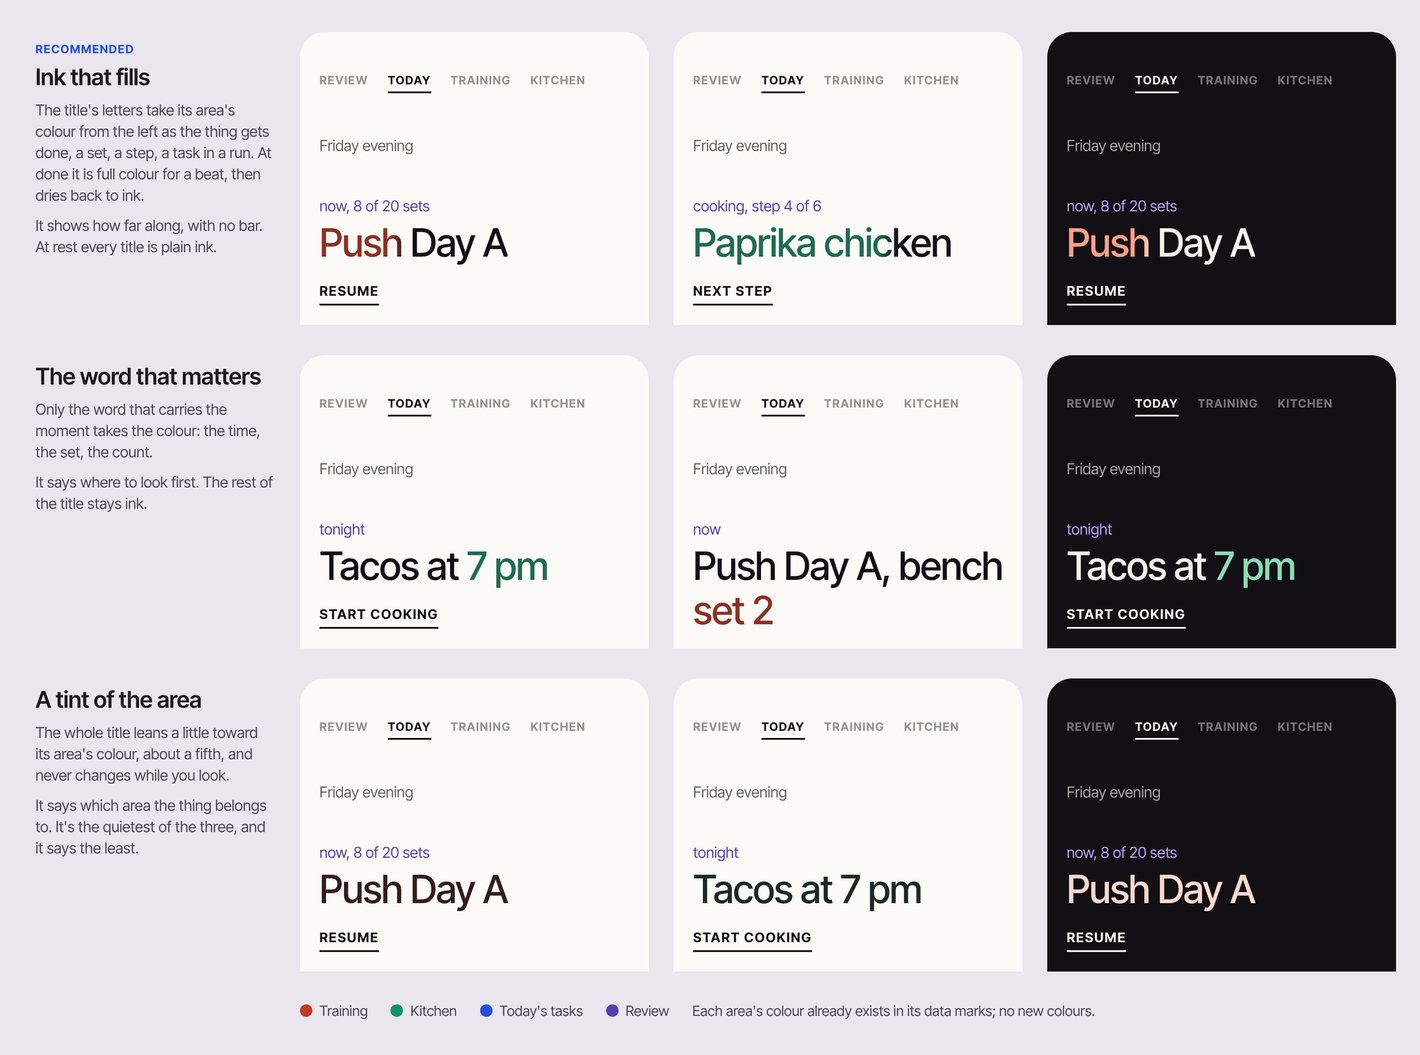
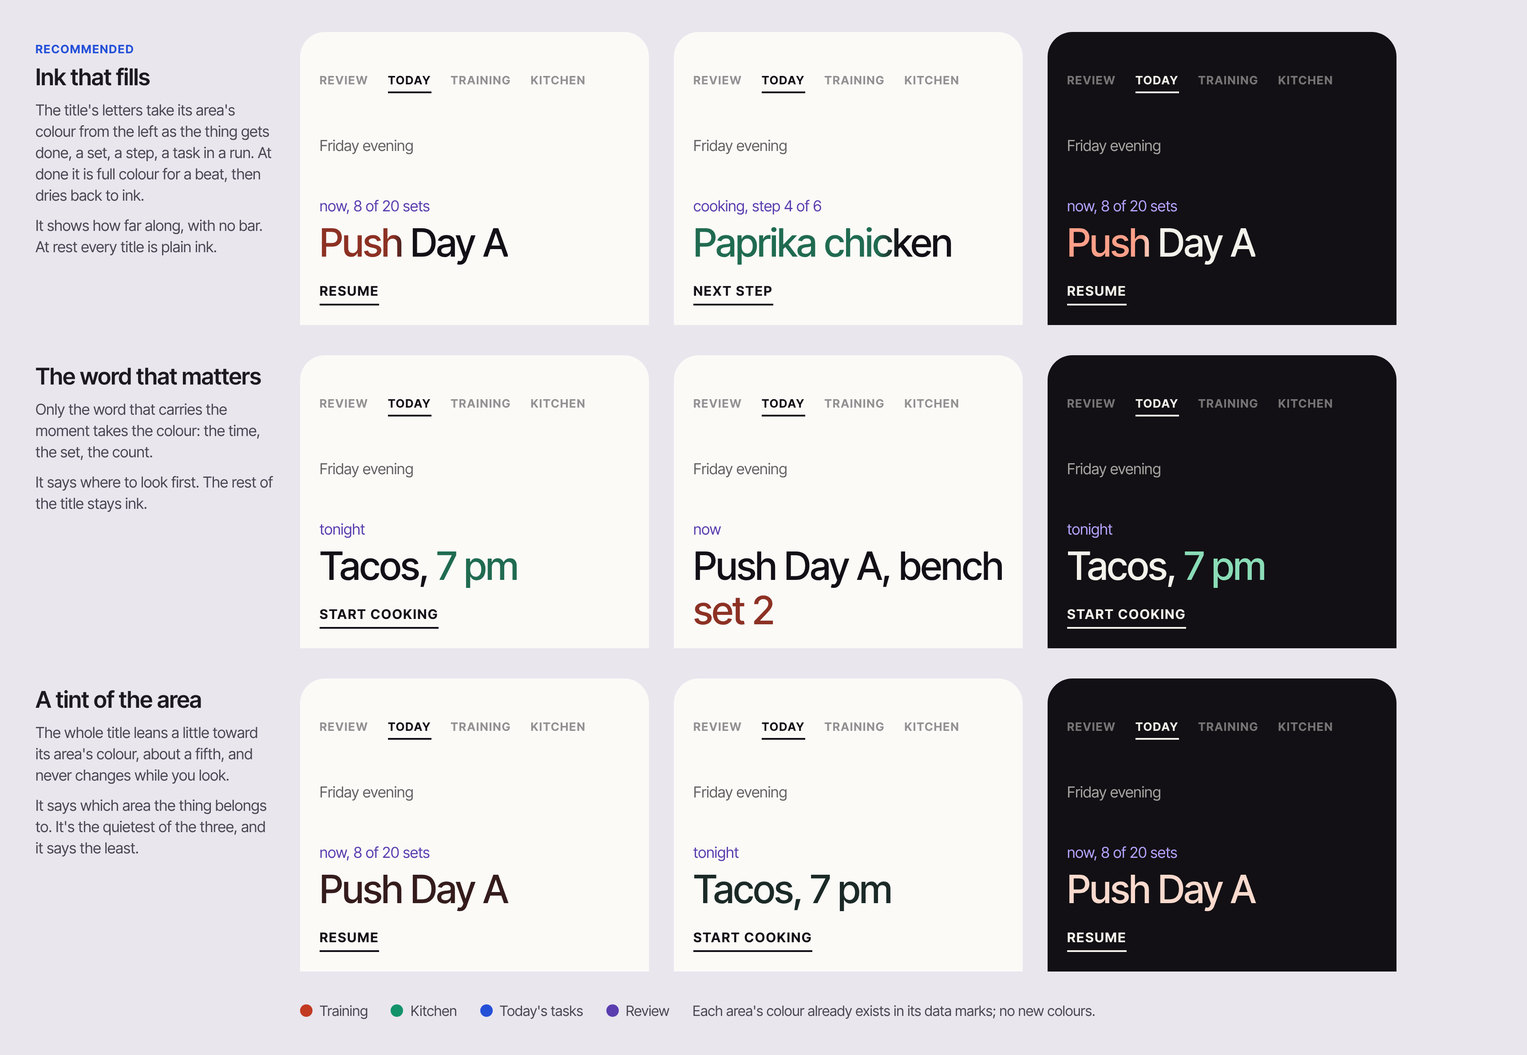
Design copy sweep: no 'at' before a clock time
Claude-Session: https://claude.ai/code/session_01SL6miEcidPoK87LdeaQGbH

diff --git a/docs/design/studies/shutdown-grammar.html b/docs/design/studies/shutdown-grammar.html
@@ -70,12 +70,12 @@ const shutdown=(o)=>{let h=frame(o)+hero(o.hero||'Shutdown');let y=296;const row
  h+=`<div class="abs lbl s2" id="tlbl" style="left:22px;top:${y}px">TOMORROW, FIRST</div><div class="abs f18" id="wl" style="left:22px;top:${y+32}px;width:346px;color:${o.typed?'rgb(var(--ink))':`rgba(var(--ink),var(--s2))`}">${o.typed||o.ph||''}${o.caret?'<span class="caret"></span>':''}</div><div class="hair" id="wh" style="top:${y+64}px"></div>`;
  return h+inkWord('CLOSE THE DAY',22,y+120,o.ids?'close':'')};
 const closed=(o)=>frame(o)+hero(o.line,220,o.two)+`<div class="abs lbl s2" style="left:22px;top:${o.two?346:296}px">${o.then}</div>`;
-const D1='Tomorrow starts with Standup at 9:30 am.';
+const D1='Tomorrow starts with Standup, 9:30 am.';
 if(!PLAY){
  $('row').innerHTML=phone('SHUTDOWN AT 9:04 PM: THE CLOCK, ROWS WITH TOMORROW AS THE VALUE, THE LINE, THE KEY',shutdown({day:'Thursday evening',ctx:'9:04 pm',ph:D1}),{por:1,line:'Did 4 tasks, 1 workout, cooked once.'})
   +phone('A ROW TO LATER, THE LINE TYPED ABOVE THE KEYS, DONE OVER THE KEYBOARD',(()=>{let h=frame({day:'Thursday evening',ctx:'9:04 pm'});h+=`<div class="abs" style="inset:0;opacity:.25;filter:blur(3px)">${hero('Shutdown')}<div class="abs lbl s2" style="left:22px;top:296px">3 MOVING TO TOMORROW</div>${line('Book the physio','TOMORROW',328)}${line('Clean the oven','LATER',368,{style:`color:rgba(var(--ink),var(--s2))`})}${line('Reply to the landlord','TOMORROW',408)}${inkWord('CLOSE THE DAY',22,584)}</div><div class="abs lbl s2" style="left:22px;top:444px">TOMORROW, FIRST</div><div class="abs f18" style="left:22px;top:468px;width:346px">Reply to the landlord<span class="caret"></span></div><div class="hair" style="top:500px"></div><div class="inkline" style="top:500px;width:346px"></div>`+KB({});return h})(),{por:1,nosoul:1})
   +phone('THE LINE SAID: HOLD THE SOUL, THE WORDS LAND IN THE LINE, WET, AND DRY',shutdown({day:'Thursday evening',ctx:'9:06 pm',typed:'<span style="color:var(--tess)">Reply to the landlord</span>'})+'<div id="fing" style="opacity:1;left:346px;top:779px"></div>',{por:0,line:'Reply to the landlord, tomorrow first.'})
-  +phone('THE CLOSED DAY: HIS LINE AS THE HERO, THEN PULL A, TESS\'S CLOSE WITH UNDO',closed({day:'Thursday night',ctx:'tomorrow, first',line:'Reply to the landlord',two:1,then:'THEN PULL A, 7:30 AM'}),{por:0,line:'Closed. Your line is waiting at 8 am.',undo:1})
+  +phone('THE CLOSED DAY: HIS LINE AS THE HERO, THEN PULL A, TESS\'S CLOSE WITH UNDO',closed({day:'Thursday night',ctx:'tomorrow, first',line:'Reply to the landlord',two:1,then:'THEN PULL A, 7:30 AM'}),{por:0,line:'Closed. Your line is set for 8 am.',undo:1})
   +phone('LATE NIGHT: THE ROWS MOVE TO FRIDAY, TESS FILES THE DAY UNDER THURSDAY',shutdown({day:'Thursday night',ctx:'12:40 am',to:'FRIDAY',rows:[['Book the physio','FRIDAY'],['Clean the oven','FRIDAY']],ph:D1}),{por:0,line:'Filed under Thursday. Did 3 tasks, cooked once.'})
   +phone('A QUIET ONE: NO ROWS, TESS OFFERS THE LINE, NOTHING ELSE ON THE PAGE',shutdown({day:'Thursday evening',ctx:'9:00 pm',rows:[]}),{por:1,line:'A quiet one. Want a line for tomorrow?'});
  $('note').innerHTML='SHUTDOWN UNDER THE ONE-LINE GRAMMAR, ON SHEET 41\'S HOME FRAME: THE DAY LABEL AT 138, THE CLOCK AS THE CONTEXT LINE AT 186, "SHUTDOWN" AS THE HERO AT 220. RESEARCH\'S OPENER (SLOT B) IS TESS\'S LINE; THE CARRY-OVER COUNT (SLOT C) IS THE LABEL WORD OVER THE ROWS; EACH ROW THAT ROLLS IS ONE BODY 21 LINE WITH TOMORROW AS ITS VALUE, A TAP MAKES IT LATER (THE VALUE CROSSFADES, NO STRIKE); THE TOMORROW LINE (SLOT D) IS A WRITING LINE AT FIELD 18; CLOSE THE DAY IS THE INK-LINE KEY, A HOLD OF 0.7 S. THE CLOSED DAY: HIS LINE AS THE HERO IN THE FITTING FORM, THEN PULL A AS A LABEL WORD, TESS\'S CLOSE (SLOT E) WITH UNDO 10 S. GONE: THE DAY STROKE, THE TITLE 34 OPENER, THE INK-LINE STRIKE, "SHUTDOWN COMPLETE" AT TITLE 34, THE MIDDLE DOT IN "THEN PULL A · 07:30". NO EVENING WASH, NO DOTS, NO COUNT OF WHAT DIDN\'T HAPPEN.';
@@ -102,7 +102,7 @@ if(!PLAY){
   await sleep(300);['rlbl','r0','r1','r1v','r2','tlbl','wl','wh','close','il'].map($).forEach(el=>el.animate([{opacity:1,filter:'blur(0)'},{opacity:0,filter:'blur(3px)'}],{duration:420,fill:'forwards'}));P.querySelector('.h56').animate([{opacity:1,filter:'blur(0)'},{opacity:0,filter:'blur(3px)'}],{duration:420,fill:'forwards'});await sleep(500);
   setCap('THE CLOSED DAY: HIS LINE AS THE HERO, TESS CLOSES WITH UNDO');xf($('dayl'),'Thursday night');xf($('ctxl'),'tomorrow, first');
   P.insertAdjacentHTML('beforeend',`<div class="abs" id="cd" style="inset:0;opacity:0">${hero('Reply to the landlord',220,1)}<div class="abs lbl s2" style="left:22px;top:346px">THEN PULL A, 7:30 AM</div></div>`);$('cd').animate([{opacity:0,transform:'scale(.97)'},{opacity:1,transform:'scale(1)'}],{duration:480,easing:H,fill:'forwards'});
-  P.insertAdjacentHTML('beforeend',`<div class="tl" style="opacity:0">Closed. Your line is waiting at 8&nbsp;am.<span class="u">UNDO</span></div>`);P.lastElementChild.animate([{opacity:0},{opacity:1}],{duration:300,delay:200,fill:'forwards'});
+  P.insertAdjacentHTML('beforeend',`<div class="tl" style="opacity:0">Closed. Your line is set for 8&nbsp;am.<span class="u">UNDO</span></div>`);P.lastElementChild.animate([{opacity:0},{opacity:1}],{duration:300,delay:200,fill:'forwards'});
   await sleep(2600);document.body.dataset.done='1'})();
 }
 </script>

diff --git a/docs/design/studies/widget-states.html b/docs/design/studies/widget-states.html
@@ -53,7 +53,7 @@ const keyW=(word,w,paint,colour,top)=>`<div class="key" style="top:${top}px;colo
 const S=[
  {k:'RUNNING',ctx:'running now, Push A',hero:'Bench, set 4 of 5',meta:'SET 4 IS UP',key:['Resume',74,'var(--live)','var(--liveInk)'],small:['running now','Bench, set 4 of 5']},
  {k:'RESTING',ctx:'running now, Push A',hero:'Bench, set 4 of 5',meta:'RESTING',timer:'1:32',horizon:.38,key:['Resume',74,'var(--live)','var(--liveInk)'],small:['resting',null,'1:32']},
- {k:'TIMED TASK<br>WITHIN 15 MIN',ctx:'next, at six',hero:'Call landlord',meta:'IN 10 MIN',small:['next, at six','Call landlord']},
+ {k:'TIMED TASK<br>WITHIN 15 MIN',ctx:'next, 6 pm',hero:'Call landlord',meta:'IN 10 MIN',small:['next, 6 pm','Call landlord']},
  {k:'REST DAY',ctx:'Rest day',hero:'Pull A is a tap away',key:['Pull A',62,'var(--tr)','rgb(var(--ink))'],small:['Rest day','Pull A is a tap away']},
  {k:'ALL QUIET',hero:'All quiet.',quiet:1,small:[null,'All quiet.']},
  {k:'DAY DONE',ctx:'trained this evening',hero:'Push A',meta:'6 OF 6 · 22 SETS · 1 RECORD',small:['trained','Push A']},
@@ -103,7 +103,7 @@ if(mode==='lock'){
  const rect=[
   ['<b>Push A</b>','Bench, set 4 of 5','<span class="d">Set 4 is up</span>'],
   ['<b>Push A</b>','Bench, set 4 of 5','<span class="d">Resting</span> 1:32'],
-  ['<b>Call landlord</b>','next, at six','<span class="d">In 10 min</span>'],
+  ['<b>Call landlord</b>','next, 6 pm','<span class="d">In 10 min</span>'],
   ['<b>Rest day</b>','Pull A is a tap away',''],
   ['<b>All quiet.</b>','',''],
   ['<b>Push A</b>','trained this evening','<span class="d">6 of 6 exercises, 22 sets</span>'],
@@ -113,7 +113,7 @@ if(mode==='lock'){
  ];
  const ring=(f,txt,sub='')=>`<div class="circ"><svg width="76" height="76" style="position:absolute;left:0;top:0"><circle cx="38" cy="38" r="33" fill="none" stroke="rgba(255,255,255,.25)" stroke-width="4"/>${f?`<circle cx="38" cy="38" r="33" fill="none" stroke="#fff" stroke-width="4" stroke-linecap="round" stroke-dasharray="${207*f} 207" transform="rotate(-90 38 38)"/>`:''}</svg><span style="position:relative">${txt}</span>${sub?`<span style="position:relative;font-size:16px;font-weight:600;opacity:.66">${sub}</span>`:''}</div>`;
  const circ=[ring(.6,'4/5'),ring(.38,'1:32'),ring(0,'10<br><span style=\'font-weight:600\'>min</span>'),`<div class="circ">Rest</div>`,`<div class="circ">Quiet</div>`,ring(1,'✓','22'),`<div class="circ" style="opacity:.66">7:30</div>`,`<div class="circ">Rest</div>`,`<div class="circ" style="opacity:.66">Paused</div>`];
- const inl=['Bench, set 4 of 5','Resting 1:32','Call landlord at six','Rest day','All quiet.','Push A, done','Pull A at 7:30','Rest day','Tessera paused'];
+ const inl=['Bench, set 4 of 5','Resting 1:32','Call landlord, 6 pm','Rest day','All quiet.','Push A, done','Pull A, 7:30 pm','Rest day','Tessera paused'];
  let g=`<h2>LOCK SCREEN ACCESSORIES · MONOCHROME, OPACITY TIERS ONLY · WORDS AND ONE TIMER CARRY THE STATE</h2><div style="display:flex;gap:40px;align-items:flex-start"><div class="lockbg"><div class="grid" style="grid-template-columns:170px 172px 76px 200px;gap:18px 22px">
   <div></div><div class="colh" style="color:rgba(255,255,255,.5)">RECTANGULAR</div><div class="colh" style="color:rgba(255,255,255,.5)">CIRCULAR</div><div class="colh" style="color:rgba(255,255,255,.5)">INLINE</div>`;
  S.forEach((s,i)=>{g+=`<div class="rowlbl" style="color:rgba(255,255,255,.66)">${s.k}</div><div class="acc rect">${rect[i].filter(Boolean).join('<br>')}</div>${circ[i]}<div class="acc inl" style="padding-top:8px">${inl[i]}</div>`});

diff --git a/docs/design/studies/area-index.html b/docs/design/studies/area-index.html
@@ -84,7 +84,7 @@ const AREAS = [
   { k: 'review', w: 'REVIEW', word: 'Review', a: 'var(--rev)', line: 'This week, 3 of 6 sessions', f: '50%' },
   { k: 'today', w: 'TODAY', word: 'Today', a: 'var(--today)', line: 'Push Day A, 13 sets left', f: '40%' },
   { k: 'train', w: 'TRAINING', word: 'Training', a: 'var(--train)', line: 'Push Day A is on', f: '35%' },
-  { k: 'kit', w: 'KITCHEN', word: 'Kitchen', a: 'var(--kit)', line: 'Tacos at 7 pm', f: '25%' },
+  { k: 'kit', w: 'KITCHEN', word: 'Kitchen', a: 'var(--kit)', line: 'Tacos, 7 pm', f: '25%' },
 ];
 
 // The four tab pages, simplified to their tops (41, 44, 46, 47).
@@ -97,8 +97,8 @@ function page(k) {
     <div class="abs hero">Push Day A is on</div><div class="abs key" style="top:282px;color:var(--train)">RESUME<i></i></div>
     <div class="abs lbl" style="top:350px">ROUTINES</div>
     <div class="abs next" style="top:378px"><div><span>Push Day A</span><em>Mon, Thu</em></div><div><span>Pull Day A</span><em>Tue</em></div><div><span>Legs A</span><em>Sat</em></div><div><span>Mobility</span><em>any day</em></div></div>`;
-  if (k === 'kit') return `<div class="abs day">Tonight</div><div class="abs ctxl">cook at 6:30 pm</div>
-    <div class="abs hero">Tacos at 7 pm</div><div class="abs key" style="top:282px">START COOKING<i></i></div>
+  if (k === 'kit') return `<div class="abs day">Tonight</div><div class="abs ctxl">cook, 6:30 pm</div>
+    <div class="abs hero">Tacos, 7 pm</div><div class="abs key" style="top:282px">START COOKING<i></i></div>
     <div class="abs lbl" style="top:350px">LISTS</div>
     <div class="abs next" style="top:378px"><div><span>Groceries</span><em>6 to buy</em></div><div><span>Packing</span><em>11 to pack</em></div><div><span>Recipes</span><em>24</em></div></div>`;
   return `<div class="abs day">This week</div><div class="abs ctxl">Oct 12 to Oct 18</div>
@@ -130,7 +130,7 @@ if (!play) {
      <div class="abs arc g" style="left:184px;top:470px;color:var(--rev)">REVIEW<small>3 of 6 this week</small></div>
      <div class="abs arc g" style="left:120px;top:560px;color:var(--today)">TODAY<small>7 of 20 sets</small></div>
      <div class="abs arc g" style="left:96px;top:650px;color:var(--train);transform:scale(1.1);transform-origin:100% 50%">TRAINING<small>Push Day A is on</small></div>
-     <div class="abs arc g" style="left:40px;top:744px;color:var(--kit)">KITCHEN<small>Tacos at 7 pm</small></div>
+     <div class="abs arc g" style="left:40px;top:744px;color:var(--kit)">KITCHEN<small>Tacos, 7 pm</small></div>
      ${band()}<div class="finger" style="left:200px;top:680px;opacity:1"></div></div>`;
 
   const col = (ph, opt, h, ps, rec) => `<div class="col">${ph}<div class="cap"><div class="opt${rec ? ' rec' : ''}">${opt}</div><h2>${h}</h2>${ps.map(p => `<p>${p}</p>`).join('')}</div></div>`;

diff --git a/docs/design/studies/living-colours.html b/docs/design/studies/living-colours.html
@@ -60,7 +60,7 @@ if(!PLAY){
 }else{
  const TABS=['REVIEW','TODAY','TRAINING','KITCHEN'],TX=[22,118,199,300];
  const tabs=on=>`<div class="abs lbl" style="left:0;right:0;top:78px;height:24px;letter-spacing:.06em;z-index:13">${TABS.map((t,i)=>`<span class="abs" style="left:${TX[i]}px;top:0;color:rgba(var(--ink),${t===on?1:.38})">${t}</span>`).join('')}<svg class="abs" style="left:${TX[TABS.indexOf(on)]}px;top:24px;overflow:visible" width="90" height="12"><path d="${lens(on.length*10.6,1.2)}" fill="rgb(var(--ink))"/></svg></div>`;
- const home=`${tabs('TODAY')}<div class="abs b nw" style="left:22px;top:138px">Thursday night</div><div class="abs b ctx nw" style="left:22px;top:186px">done at 7:40 pm</div><div class="abs hero" style="left:22px;top:220px">Push A done</div><div class="abs t34" style="left:22px;top:326px">Next</div>${[['Stretch and mobility','20:30'],['Read Designing Data-Intensive Applications','21:10',1],['Call mom','tomorrow']].map(([t,h,w],k,a)=>{const y=378+a.slice(0,k).reduce((s,r)=>s+(r[2]?74:46),0);return `<div class="abs b" style="left:22px;top:${y}px;width:280px">${t}</div><div class="abs lbl s2" style="right:22px;top:${y+4}px">${h}</div>`}).join('')}`;
+ const home=`${tabs('TODAY')}<div class="abs b nw" style="left:22px;top:138px">Thursday night</div><div class="abs b ctx nw" style="left:22px;top:186px">done, 7:40 pm</div><div class="abs hero" style="left:22px;top:220px">Push A done</div><div class="abs t34" style="left:22px;top:326px">Next</div>${[['Stretch and mobility','20:30'],['Read Designing Data-Intensive Applications','21:10',1],['Call mom','tomorrow']].map(([t,h,w],k,a)=>{const y=378+a.slice(0,k).reduce((s,r)=>s+(r[2]?74:46),0);return `<div class="abs b" style="left:22px;top:${y}px;width:280px">${t}</div><div class="abs lbl s2" style="right:22px;top:${y+4}px">${h}</div>`}).join('')}`;
  $('board').innerHTML=`<div class="cap" id="cap">TODAY · HER OWN PIGMENTS AT REST</div><div class="ph" id="P">${home}${soul(pig('Obsidian','Today'),1,1,323,759,'S')}</div>`;
  const seq=[['Lagoon','night after a push day'],['Kiln','a cook evening'],['Ember','a bench best today'],['Today','back to her own']];
  async function play(){await sleep(1600);

diff --git a/docs/design/studies/day-reel.html b/docs/design/studies/day-reel.html
@@ -67,8 +67,8 @@ const startKey=(word,fill,y=296,id='sk')=>`<div class="abs lbl" id="${id}" style
 const next=(y0,rows)=>`<div class="abs t34" style="left:22px;top:${y0}px">Next</div>${rows.map(([t,h,w],k,a)=>{const y=y0+52+a.slice(0,k).reduce((s,r)=>s+(r[2]?74:46),0);return `<div class="abs b" style="left:22px;top:${y}px;width:${h?280:346}px">${t}</div>${h?`<div class="abs lbl s2" style="right:22px;top:${y+4}px">${h}</div>`:''}`}).join('')}`;
 const home=(o)=>`<div class="abs b nw" id="day" style="left:22px;top:138px">${o.day}</div><div class="abs b ctx nw" id="ctxl" style="left:22px;top:186px">${o.ctx}</div><div class="abs hero" id="hero" style="left:22px;top:220px">${o.hero}</div>${o.key?startKey(o.key,o.fill??1):''}${next(o.key?388:326,o.rows)}`;
 const MORNING={day:'Thursday morning',ctx:'today',hero:'Push A',key:'START PUSH A',rows:[['Call the bank','15:00'],['Groceries at Trader Joe’s','17:30'],['Stretch and mobility','20:30'],['Read Designing Data-Intensive Applications','21:10',1]]};
-const EVENING={day:'Thursday evening',ctx:'done at 7:40 pm',hero:'Push A done',rows:[['Stretch and mobility','20:30'],['Read Designing Data-Intensive Applications','21:10',1],['Call mom','tomorrow']]};
-const NIGHT={day:'Thursday night',ctx:'done at 7:40 pm',hero:'Push A done',rows:[['Call mom','tomorrow'],['Pull A','tomorrow']]};
+const EVENING={day:'Thursday evening',ctx:'done, 7:40 pm',hero:'Push A done',rows:[['Stretch and mobility','20:30'],['Read Designing Data-Intensive Applications','21:10',1],['Call mom','tomorrow']]};
+const NIGHT={day:'Thursday night',ctx:'done, 7:40 pm',hero:'Push A done',rows:[['Call mom','tomorrow'],['Pull A','tomorrow']]};
 const FRIDAY={day:'Friday morning',ctx:'today',hero:'Pull A',key:'START PULL A',rows:[['Call mom','12:30'],['Stretch and mobility','20:30']]};
 // 44: Training at rest. The strip (one segment per exercise, its length its sets), the plan as lanes, the Start mark.
 const PLAN=[['Bench press',4,'82.5 × 8'],['Overhead press',3,'47.5 × 8'],['Incline dumbbell',3,'28 × 10'],['Lateral raise',3,'10 × 12'],['Triceps pushdown',3,'30 × 12']];

diff --git a/docs/design/studies/title-accent.html b/docs/design/studies/title-accent.html
@@ -74,16 +74,16 @@ const options = [
     p: ['Only the word that carries the moment takes the colour: the time, the set, the count.',
         'It says where to look first. The rest of the title stays ink.'],
     phones: [
-      ['por', { mode: 'word', area: 'kit', word: '7 pm', hero: 'Tacos at 7 pm', ctx: 'tonight', key: 'START COOKING' }],
+      ['por', { mode: 'word', area: 'kit', word: '7 pm', hero: 'Tacos, 7 pm', ctx: 'tonight', key: 'START COOKING' }],
       ['por', { mode: 'word', area: 'train', word: 'set 2', hero: 'Push Day A, bench set 2', lines: 2, ctx: 'now', key: 'RESUME' }],
-      ['obs', { mode: 'word', area: 'kit', word: '7 pm', hero: 'Tacos at 7 pm', ctx: 'tonight', key: 'START COOKING' }],
+      ['obs', { mode: 'word', area: 'kit', word: '7 pm', hero: 'Tacos, 7 pm', ctx: 'tonight', key: 'START COOKING' }],
     ] },
   { h: 'A tint of the area',
     p: ['The whole title leans a little toward its area\'s colour, about a fifth, and never changes while you look.',
         'It says which area the thing belongs to. It\'s the quietest of the three, and it says the least.'],
     phones: [
       ['por', { mode: 'tint', area: 'train', hero: 'Push Day A', ctx: 'now, 8 of 20 sets', key: 'RESUME' }],
-      ['por', { mode: 'tint', area: 'kit', hero: 'Tacos at 7 pm', ctx: 'tonight', key: 'START COOKING' }],
+      ['por', { mode: 'tint', area: 'kit', hero: 'Tacos, 7 pm', ctx: 'tonight', key: 'START COOKING' }],
       ['obs', { mode: 'tint', area: 'train', hero: 'Push Day A', ctx: 'now, 8 of 20 sets', key: 'RESUME' }],
     ] },
 ];

diff --git a/docs/design/studies/widgets-home-lines.html b/docs/design/studies/widgets-home-lines.html
@@ -67,7 +67,7 @@ if(!PLAY){
  S.forEach(s=>{h+=`<div class="cap" style="margin-top:10px">${s.n}</div><div class="grid">${LOOKS.map(([k])=>medium(s,k)).join('')}</div>`});
  h+=`<div class="cap">SMALL: THE LINE ALONE (26 WHEN IT’S LONGER THAN 18 CHARACTERS); RESTING IS THE TIMER OVER THE HORIZON</div><div class="sg">${S.map(s=>small(s,'P')).join('')}${S.slice(0,4).map(s=>small(s,'O')).join('')}</div>`;
  h+=`<div class="cap">LOCK SCREEN ACCESSORIES: THE LINE, THEN THE TIME; THE CIRCULAR IS ONE WORD, NO RING, NO TICK</div><div class="lockbg">`;
- const rect=[['Push A today.','6:00 pm'],['Push A, bench set 4.',''],['Push A, bench set 4.','Resting 1:32'],['Call landlord at six.','In 10 min'],['Rest day.',''],['All quiet.',''],['Push A done, a bench best.','7:40 pm'],['Pull A tomorrow, first.','7:30 am']];
+ const rect=[['Push A today.','6:00 pm'],['Push A, bench set 4.',''],['Push A, bench set 4.','Resting 1:32'],['Call landlord, 6 pm.','In 10 min'],['Rest day.',''],['All quiet.',''],['Push A done, a bench best.','7:40 pm'],['Pull A tomorrow, first.','7:30 am']];
  const circ=['Push A','Set 4','1:32','10 min','Rest','Quiet','Done','7:30'];
  h+=rect.map(([a,b],i)=>`<div><div class="rect"><b>${a}</b>${b?`<span>${b}</span>`:''}</div><div style="display:flex;gap:16px;align-items:center;margin-top:12px"><div class="circ">${circ[i]}</div><div class="inl">${a.replace(/\.$/,'')}</div></div></div>`).join('');
  h+=`</div>`;

diff --git a/docs/design/studies/plan-home.html b/docs/design/studies/plan-home.html
@@ -68,7 +68,7 @@ const CLAUDE={...OFFER,key:'START WITH REPLY TO LANDLORD',rows:PLAN,via:1};
 const FIRST={...CLAUDE,rows:PLAN.slice(0,3),more:2,moreY:578,first:1,firstY:636};
 const KEPT={day:'Friday morning',ctx:'this morning, 8 am',hero:'Reply to landlord',key:'START PUSH A',rows:PLAN.slice(1)};
 const PAUSED={day:'Friday evening',ctx:'paused 21 min ago',hero:'Push A, paused at bench',two:1,key:'RESUME PUSH A',fill:.22,rows:[['Read Designing Data-Intensive Applications','21:10',1],['Call mom','tomorrow']]};
-const NOCAL={day:'Friday morning',ctx:'this morning',hero:'Three tasks, Push A at 6',two:1,key:'START WITH WRITE THE REPORT',sec:'Plan',rows:RULES.slice(0,4),ghost:1,more:1,moreY:624};
+const NOCAL={day:'Friday morning',ctx:'this morning',hero:'Three tasks, Push A, 6 pm',two:1,key:'START WITH WRITE THE REPORT',sec:'Plan',rows:RULES.slice(0,4),ghost:1,more:1,moreY:624};
 const phone=(c,inner,opt={})=>`<div><div class="cap">${c}</div><div class="ph${(opt.por??POR)?' por':''}" ${opt.id?`id="${opt.id}"`:''}>${tabs()}${inner}${opt.line?`<div class="tl">${opt.line}${opt.undo?'<span class="u">UNDO</span>':''}</div>`:''}${soul(opt.id?'S':'s'+Math.random().toString(36).slice(2,6))}${opt.fing?'<div id="fing"></div>':''}</div></div>`;
 
 if(!PLAY){

diff --git a/docs/design/studies/no-dots.html b/docs/design/studies/no-dots.html
@@ -67,7 +67,7 @@ function home(side){
   <div class="abs lbl sec" style="left:22px;top:318px">NEXT</div>`;
   ROWS.forEach(([t,tm,c],i)=>{h+=`<div class="row" id="${side}r${i}" style="top:${352+i*48}px">${dots?`<div class="dab" style="background:radial-gradient(closest-side,${C[c]},${C[c]} 55%,transparent)"></div>`:''}<div class="t" style="font-weight:${i===0?500:400}">${!dots&&i===1?'<div class="wash"></div>':''}${t}</div><div class="tm">${tm}</div></div>`});
   h+=`<div class="row" id="${side}ghost" style="top:${352+3*48}px">${dots?`<div class="dab" id="${side}gd" style="background:radial-gradient(closest-side,var(--tess),var(--tess) 55%,transparent);filter:blur(1.5px)"></div>`:''}<div class="t" style="color:var(--tess)"><span>Call Mom</span>${dots?'':'<span class="ink-over">Call Mom</span>'}</div><div class="tm" id="${side}gt" style="color:var(--tess)">9:30 PM</div></div>`;
-  h+=`<div class="abs tessline" id="${side}said" style="left:22px;top:600px;width:330px;opacity:0;transform:translateY(10px)">Added Call Mom at 9:30.</div>`;
+  h+=`<div class="abs tessline" id="${side}said" style="left:22px;top:600px;width:330px;opacity:0;transform:translateY(10px)">Added Call Mom, 9:30 am.</div>`;
   return h+SOUL+`</div>`;
 }
 // review

diff --git a/docs/design/mockups/HomeLedger.dc.html b/docs/design/mockups/HomeLedger.dc.html
@@ -157,7 +157,7 @@ body{margin:0}
     </section>
 
     <section class="pg">
-      <div class="it" style="position: absolute; left: 22px; top: 122px; font-size: 21px; color: #7A5C8E">this evening at six</div>
+      <div class="it" style="position: absolute; left: 22px; top: 122px; font-size: 21px; color: #7A5C8E">this evening, 6 pm</div>
       <div class="hero" style="position: absolute; left: 20px; top: 152px">Push Day A</div>
       <div style="position: absolute; left: 22px; right: 22px; top: 232px; display: flex; flex-direction: column">
         <sc-for list="{{plan}}" as="p" hint-placeholder-count="5">

diff --git a/docs/design/mockups/HomeRunning.dc.html b/docs/design/mockups/HomeRunning.dc.html
@@ -139,7 +139,7 @@ body{margin:0}
     </section>
 
     <section class="pg">
-      <div class="it" style="position: absolute; left: 22px; top: 122px; font-size: 21px; color: #7A5C8E">this evening at six</div>
+      <div class="it" style="position: absolute; left: 22px; top: 122px; font-size: 21px; color: #7A5C8E">this evening, 6 pm</div>
       <div class="hero" style="position: absolute; left: 20px; top: 152px">Push Day A</div>
       <div style="position: absolute; left: 22px; right: 22px; top: 232px; display: flex; flex-direction: column">
         <sc-for list="{{plan}}" as="p" hint-placeholder-count="5">

diff --git a/docs/design/mockups/HomeTight.dc.html b/docs/design/mockups/HomeTight.dc.html
@@ -139,7 +139,7 @@ body{margin:0}
     </section>
 
     <section class="pg">
-      <div class="it" style="position: absolute; left: 22px; top: 122px; font-size: 21px; color: #7A5C8E">this evening at six</div>
+      <div class="it" style="position: absolute; left: 22px; top: 122px; font-size: 21px; color: #7A5C8E">this evening, 6 pm</div>
       <div class="hero" style="position: absolute; left: 20px; top: 152px">Push Day A</div>
       <div style="position: absolute; left: 22px; right: 22px; top: 232px; display: flex; flex-direction: column">
         <sc-for list="{{plan}}" as="p" hint-placeholder-count="5">
